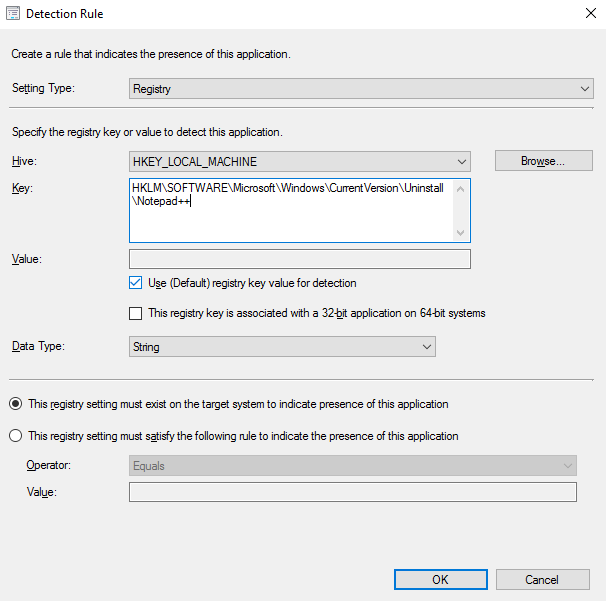
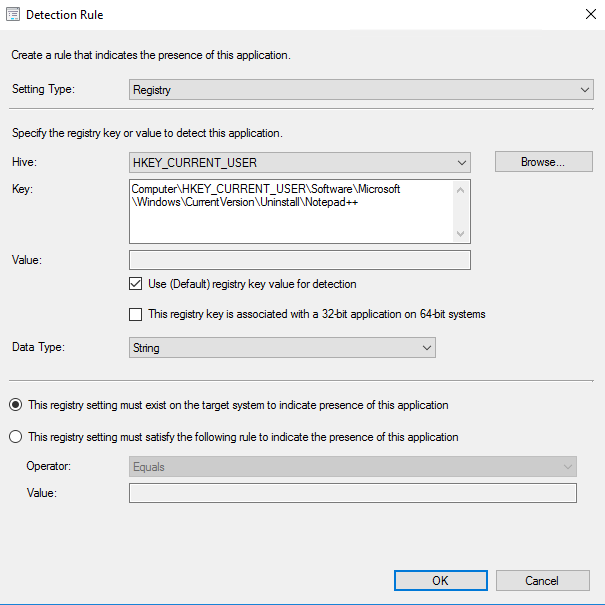
SCCM install switched to a user context instead of the global (--all-users) one

diff --git a/deploying/system_center_sccm/system_center_sccm.md b/deploying/system_center_sccm/system_center_sccm.md
@@ -20,6 +20,9 @@ There are two configuration steps for the file share server:
 
 - Install the Turbo.net client: `turbo-client-19.9.2054.0.exe --silent --all-users`
 - Make the path C:\ProgramData\Turbo\Containers\repo a shared folder, giving read-access to all the user accounts which will run Turbo applications
+- Download the base images:
+  - `turbo pull --all-users xvm`
+  - `turbo pull --all-users clean`
 
 #### 2. Prepare Turbo.net Client Runtime installation package in SCCM
 
@@ -65,7 +68,7 @@ It's time to create the application .svm file. We can do that by using either St
 We are now ready to prepare the SCCM package for our application. We start again by creating a .bat file with a simple command:
 
 ```
-turbo installi --pull --all-users --skip-installed {app-name}
+"C:\Program Files (x86)\Turbo\Cmd\turbo.exe" installi --skip-installed --offline {app-name}
 ```
 
 And use it in a 'Script Installer' deployment:
@@ -76,9 +79,7 @@ The turbo installi command adds keys to the Uninstaller key, so you may use the 
 
 ![](sccm-3-custom-app-deployment-type-script-1.png)
 
-Alternatively, you could check the existence of the `C:\ProgramData\Turbo\Containers\installation\{app-title}` folder.
-
-In the User Experience tab, select 'Install for system' and finish the Application wizard. We are now ready to deploy the package to Distribution Points and client devices.
+In the User Experience tab, select 'Install for user' and finish the Application wizard. We are now ready to deploy the package to Distribution Points and client devices.
 
 ** *Note* **
 
